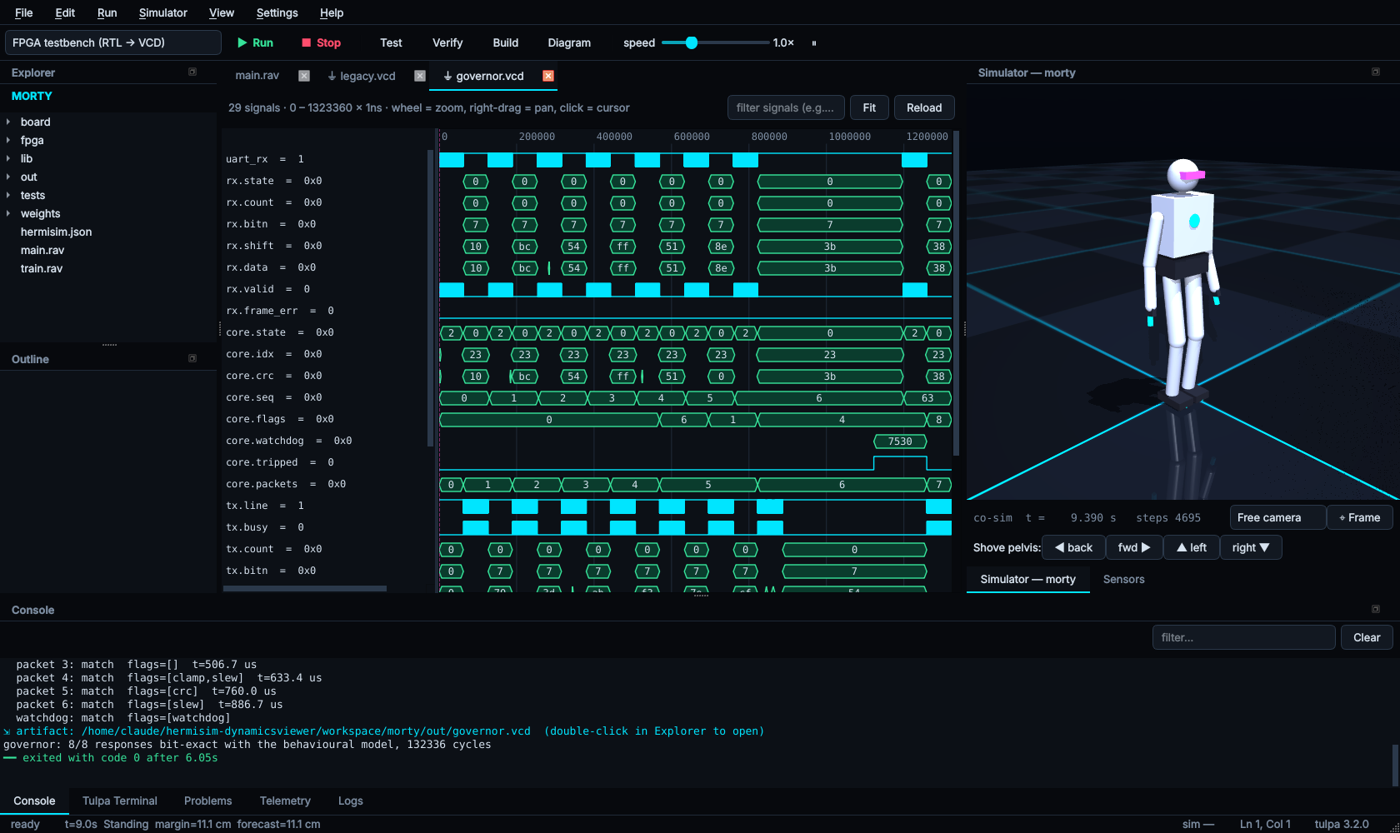
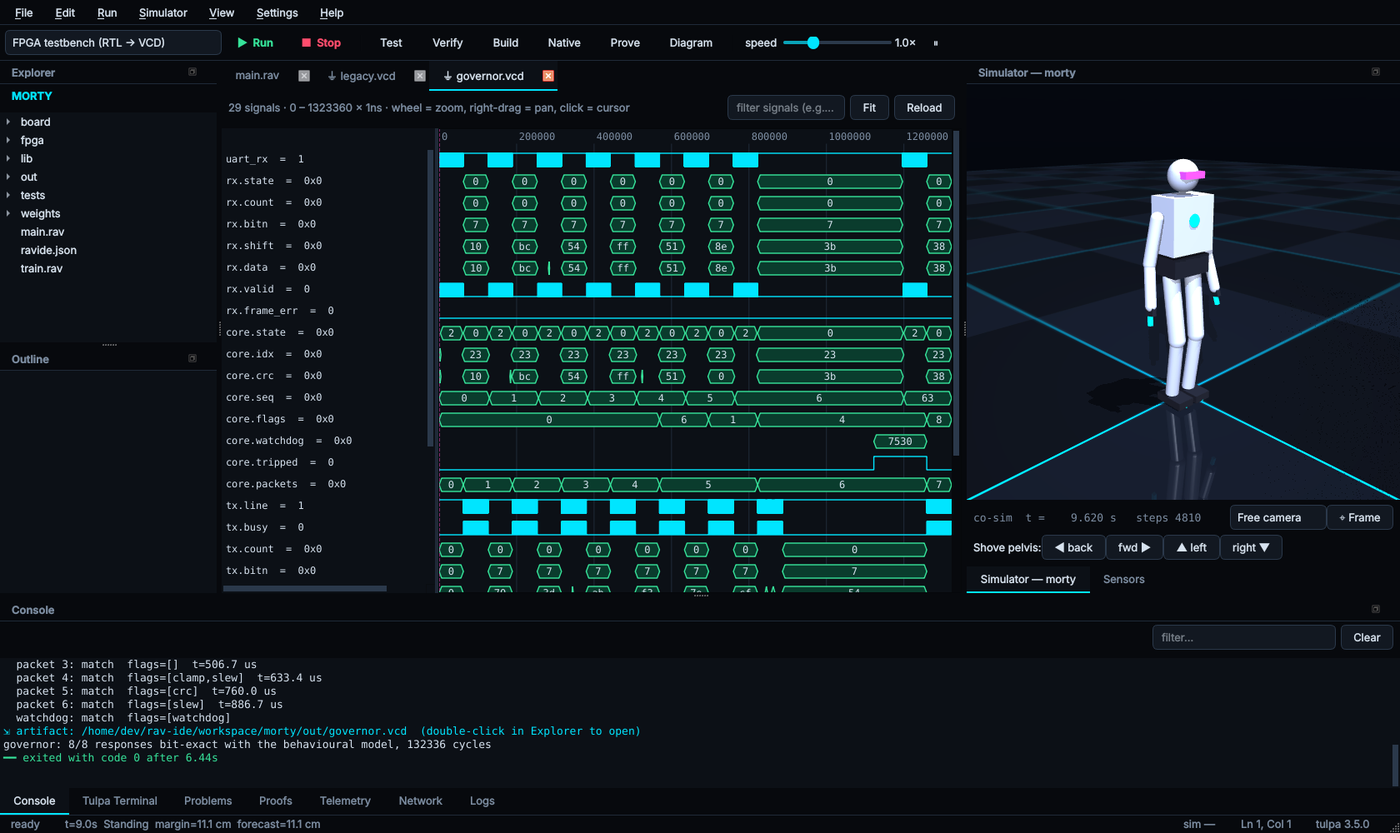
Rebranded screenshots; fix ide_smoke step ordering
- docs/screenshots regenerated with .RAV IDE branding; README welcome
  image now uses docs/screenshots/00_welcome.png (old webp removed)
- tools/ide_smoke.py runs its plan as a chain: absolute timers let
  shot()'s processEvents() fire show_welcome before the BOM grab, so
  05_bom.png duplicated the welcome page

Claude-Session: https://claude.ai/code/session_01PTVHcUebwVvs6TiUnpqaws

diff --git a/tools/ide_smoke.py b/tools/ide_smoke.py
@@ -53,10 +53,18 @@ plan = [(1500, shot("01_editor")), (100, run_cfg(2)), (9000, lambda: w.d_plots.r
         (200, w.runs.stop), (1500, run_cfg(5)), (9000, open_vcd), (800, shot("03_vcd")),
         (200, machines), (800, shot("04_machines")), (300, lambda: w.open_file(str(root / "workspace" / "morty" / "out" / "morty_bom.csv"))),
         (500, shot("05_bom")), (200, w.show_welcome), (500, shot("00_welcome")), (300, app.quit)]
-t = 0
-for dt, fn in plan:
-    t += dt
-    QTimer.singleShot(t, fn)
+# Run the plan as a chain (each step is scheduled only after the previous one ran). Absolute
+# timers misfire when a step blocks: shot()'s processEvents() would run overdue later steps,
+# e.g. show_welcome before the BOM screenshot is grabbed.
+
+
+def step(i=0):
+    if i < len(plan):
+        dt, fn = plan[i]
+        QTimer.singleShot(dt, lambda: (fn(), step(i + 1)))
+
+
+step()
 app.exec()
 print("problems:", w.problems.count(), "series:", len(w.plots.series))
 os._exit(0)

diff --git a/README.md b/README.md
@@ -15,7 +15,7 @@
 The bundled **Morty** project rewrites the
 [Morty bipedal humanoid](https://github.com/LoQiseaking69/Morty) entirely in Tulpa.
 
-![.RAV IDE welcome page](image%20(20).webp)
+![.RAV IDE welcome page](docs/screenshots/00_welcome.png)
 
 ![IDE running Morty in the simulator](docs/screenshots/02_cosim.png)
 
